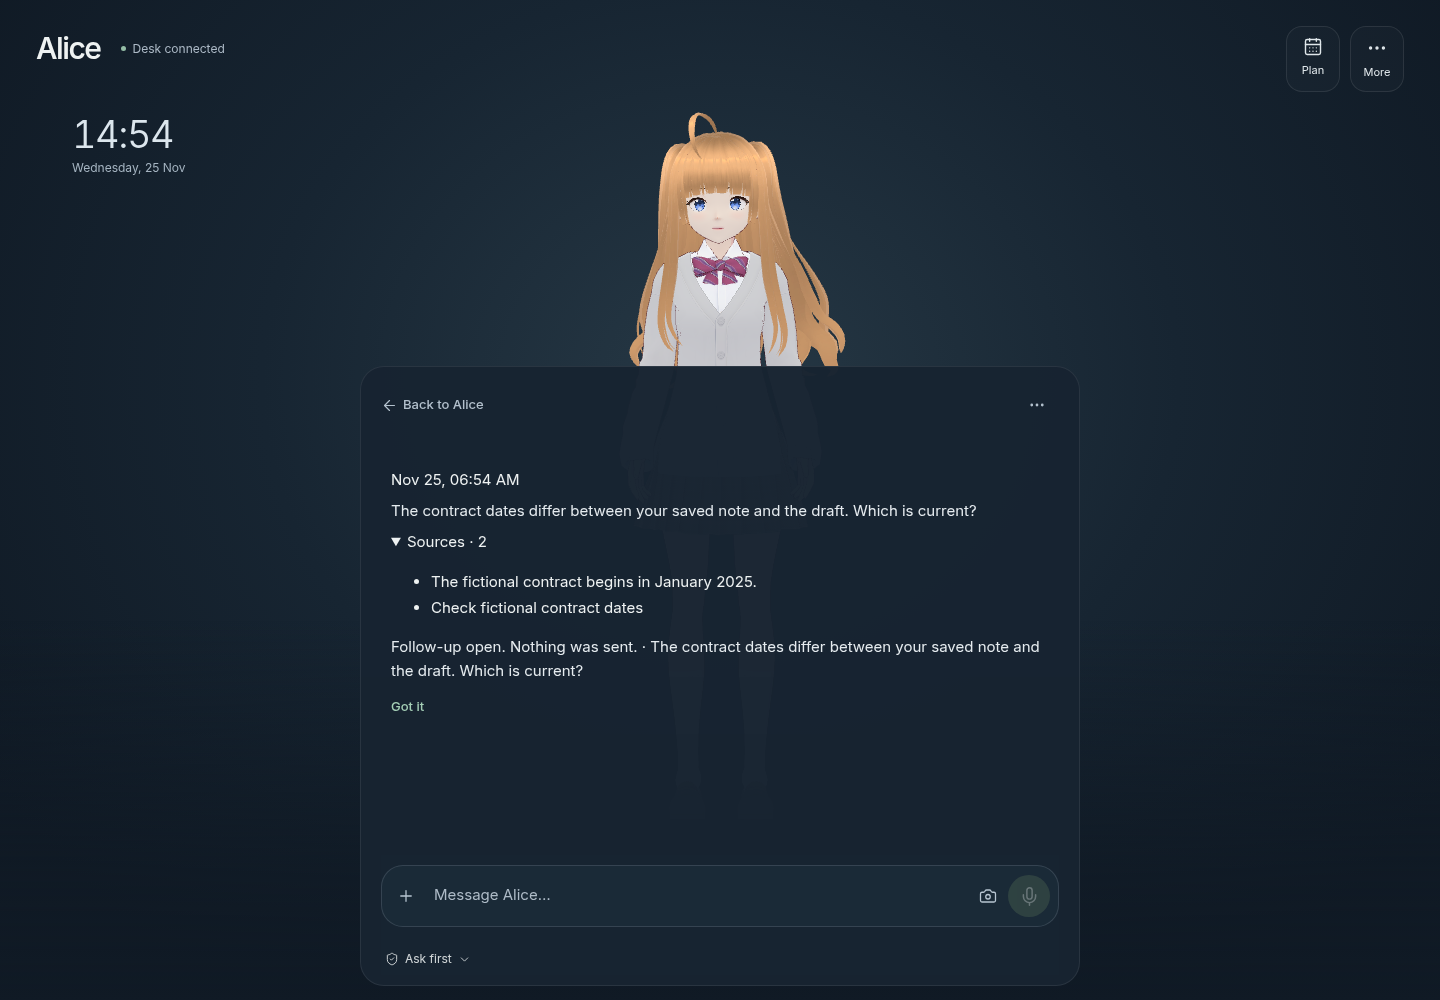
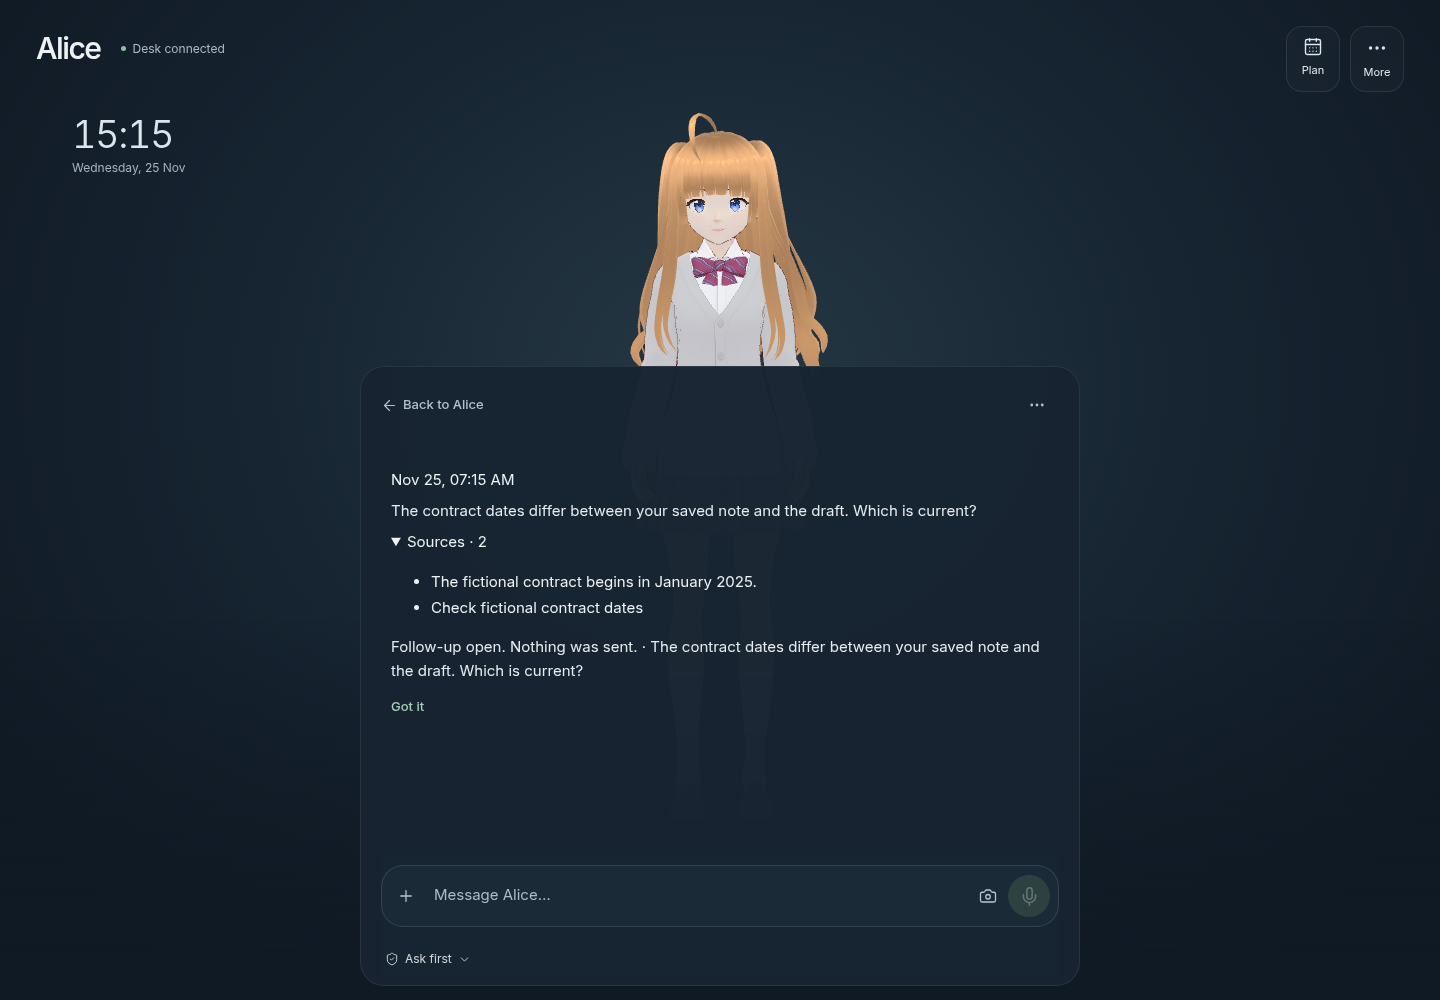
Refuse stale finding follow-ups and harden permission/replay coverage
Revalidate cited sources before creating a private follow-up task, reuse
the write connection for live status, and cover revoked/paired/hidden,
Got it, same-key replay, deleted binding, and title-edit decoys. Keep
error recovery on the exact request id after an aborted write.

diff --git a/desk-companion/frontend/src/api.ts b/desk-companion/frontend/src/api.ts
@@ -259,6 +259,14 @@ export function errorText(
     MAIL_FOLLOWUP_CHANGED: ["A newer email update is available. Refresh before marking it reviewed.", "有更新的邮件进展，请刷新后再标记已查看。"],
     MAIL_THREAD_ALREADY_FOLLOWED: ["This thread is already linked to another task.", "这段邮件对话已经关联到另一件事务。"],
     MAIL_FOLLOWUP_LIMIT: ["The email follow-up limit has been reached.", "已达到当前邮件跟进上限。"],
+    INITIATIVE_STALE: [
+      "This suggestion is no longer current. Refresh before opening a follow-up. Nothing was sent.",
+      "这项建议已不再有效。请刷新后再跟进。没有发送。",
+    ],
+    INITIATIVE_NOT_FOUND: [
+      "That suggestion is no longer available. Nothing was sent.",
+      "该项建议已不可用。没有发送。",
+    ],
     APP_SCOPE_REQUIRED: [
       "The app did not receive the required permissions. Reconnect and review the access requested.",
       "此应用未获得必要权限，请重新连接并核对访问范围。",

diff --git a/desk-companion/tests/test_initiative.py b/desk-companion/tests/test_initiative.py
@@ -641,3 +641,248 @@ def test_followup_requires_owner_session_and_creates_private_task(world):
     assert hidden.value.code == "PRIVATE_TASK_HIDDEN"
     # Binding remains by task id even when the display listing hides the private task.
     assert r.initiative._followup_status(follow.json()["followup"])["task_id"] == bound
+
+
+def test_followup_replay_and_second_key_bind_one_task(world):
+    r, client, *_ = world
+    r.initiative.advance()
+    finding = r.initiative.current()[0]
+    first = client.post(
+        f"/api/initiative/{finding['id']}/follow-ups",
+        json={},
+        headers={"X-Desk-Request": "1", "X-Operation-Id": "follow-race-a"},
+    )
+    assert first.status_code == 200 and first.json()["saved"] is True
+    bound = first.json()["followup"]["task_id"]
+    replay = client.post(
+        f"/api/initiative/{finding['id']}/follow-ups",
+        json={},
+        headers={"X-Desk-Request": "1", "X-Operation-Id": "follow-race-a"},
+    )
+    assert replay.json()["followup"]["task_id"] == bound
+    other = client.post(
+        f"/api/initiative/{finding['id']}/follow-ups",
+        json={},
+        headers={"X-Desk-Request": "1", "X-Operation-Id": "follow-race-b"},
+    )
+    assert other.json()["already_following"] is True
+    assert other.json()["followup"]["task_id"] == bound
+    assert other.json()["saved"] is False and other.json()["sent"] is False
+    with r.store.connection() as conn:
+        count = conn.execute(
+            "SELECT count(*) FROM task_evidence WHERE kind=?", ("initiative_followup",)
+        ).fetchone()[0]
+    assert count == 1
+
+
+def test_followup_refuses_revoked_paired_hidden_and_got_it_path(world):
+    r, client, actor, fact, *_ = world
+    r.initiative.advance()
+    finding = r.initiative.current()[0]
+    # Got it dismisses; it never opens a follow-up task.
+    dismissed = client.post(
+        f"/api/initiative/{finding['id']}/dismissals",
+        json={},
+        headers={"X-Desk-Request": "1", "X-Operation-Id": "got-it-only"},
+    )
+    assert dismissed.status_code == 200
+    assert dismissed.json()["sent"] is False and dismissed.json()["acted"] is False
+    with r.store.connection() as conn:
+        assert (
+            conn.execute(
+                "SELECT count(*) FROM task_evidence WHERE kind=?",
+                ("initiative_followup",),
+            ).fetchone()[0]
+            == 0
+        )
+    blocked = client.post(
+        f"/api/initiative/{finding['id']}/follow-ups",
+        json={},
+        headers={"X-Desk-Request": "1", "X-Operation-Id": "after-dismiss"},
+    )
+    assert blocked.status_code == 404
+    assert blocked.json()["error"]["code"] == "INITIATIVE_NOT_FOUND"
+
+    r.initiative.advance()
+    # A fresh finding after dismiss of the previous one.
+    open_finding = r.initiative.current()
+    if not open_finding:
+        # Advance may no-op when signature unchanged; seed another conflict.
+        now = world[5]
+        now[0] = now[0] + timedelta(minutes=20)
+        r.memory.create("A second fictional clause says March 2026.", "fact-2")
+        r.initiative.advance()
+        open_finding = r.initiative.current()
+    assert open_finding
+    target = open_finding[0]["id"]
+
+    enrol = client.post(
+        "/api/devices/enrol-display",
+        json={"name": "Paired screen"},
+        headers={"X-Desk-Request": "1", "X-Operation-Id": "pair-screen"},
+    )
+    assert enrol.status_code == 200
+    paired = TestClient(client.app)
+    paired.headers.update(
+        {
+            "Authorization": "Bearer " + client.cookies.get("desk_companion_device"),
+            "X-Desk-Request": "1",
+        }
+    )
+    assert (
+        paired.post(
+            f"/api/initiative/{target}/follow-ups",
+            json={},
+            headers={"X-Operation-Id": "paired-follow"},
+        ).status_code
+        == 403
+    )
+
+    r.store.update_settings(
+        SettingsInput(expected_version=1, timezone="Asia/Hong_Kong", hide_private=True),
+        "hide-before-follow",
+    )
+    hidden = client.post(
+        f"/api/initiative/{target}/follow-ups",
+        json={},
+        headers={"X-Desk-Request": "1", "X-Operation-Id": "hidden-follow"},
+    )
+    assert hidden.status_code == 403
+    assert hidden.json()["error"]["code"] == "PRIVATE_CONTEXT_HIDDEN"
+    r.store.update_settings(
+        SettingsInput(expected_version=2, timezone="Asia/Hong_Kong", hide_private=False),
+        "unhide-follow",
+    )
+
+    token = client.cookies.get("desk_companion_session")
+    r.store.logout(token)
+    revoked = client.post(
+        f"/api/initiative/{target}/follow-ups",
+        json={},
+        headers={"X-Desk-Request": "1", "X-Operation-Id": "revoked-follow"},
+    )
+    assert revoked.status_code == 403
+
+
+def test_stale_finding_cannot_open_followup_and_deleted_task_stays_bound(world):
+    r, client, actor, fact, task, now, calls = world
+    r.initiative.advance()
+    finding = r.initiative.current(display=True)[0]
+    # Forget a cited fact so source fingerprints no longer match.
+    r.memory.delete(fact["id"], fact["version"], "forget-cited")
+    stale = client.post(
+        f"/api/initiative/{finding['id']}/follow-ups",
+        json={},
+        headers={"X-Desk-Request": "1", "X-Operation-Id": "stale-follow"},
+    )
+    assert stale.status_code == 409
+    assert stale.json()["error"]["code"] == "INITIATIVE_STALE"
+    with r.store.connection() as conn:
+        assert (
+            conn.execute(
+                "SELECT count(*) FROM task_evidence WHERE kind=?",
+                ("initiative_followup",),
+            ).fetchone()[0]
+            == 0
+        )
+
+    # Restore matching evidence via a new conflict, then bind and remove the task row.
+    now[0] = now[0] + timedelta(minutes=30)
+    r.memory.create("The fictional contract begins in January 2025.", "fact-restored")
+    r.initiative.advance()
+    live = r.initiative.current(display=True)
+    assert live
+    created = client.post(
+        f"/api/initiative/{live[0]['id']}/follow-ups",
+        json={},
+        headers={"X-Desk-Request": "1", "X-Operation-Id": "bind-then-delete"},
+    )
+    assert created.status_code == 200
+    bound = created.json()["followup"]["task_id"]
+    with r.store.connection(write=True) as conn:
+        conn.execute("DELETE FROM tasks WHERE id=?", (bound,))
+    status = r.initiative._followup_status(created.json()["followup"])
+    assert status["task_id"] == bound and status["status"] == "missing"
+    assert status["open"] is False
+    # A later request keeps the original binding instead of writing another task.
+    again = client.post(
+        f"/api/initiative/{live[0]['id']}/follow-ups",
+        json={},
+        headers={"X-Desk-Request": "1", "X-Operation-Id": "after-delete"},
+    )
+    assert again.json()["already_following"] is True
+    assert again.json()["followup"]["task_id"] == bound
+    assert again.json()["followup_status"]["status"] == "missing"
+    with r.store.connection() as conn:
+        assert (
+            conn.execute(
+                "SELECT count(*) FROM task_evidence WHERE kind=? AND task_id=?",
+                ("initiative_followup", bound),
+            ).fetchone()[0]
+            == 1
+        )
+        assert conn.execute("SELECT 1 FROM tasks WHERE id=?", (bound,)).fetchone() is None
+    # Notices stay generic; finding wording is not copied into the notice title.
+    notices = r.notify.listing()["notices"]
+    for notice in notices:
+        body = json.dumps(notice)
+        assert "January 2025" not in body
+        assert "contract dates differ" not in body.lower()
+
+
+def test_concurrent_dismiss_beats_followup_and_edited_title_does_not_rebind(world):
+    r, client, *_ = world
+    r.initiative.advance()
+    finding = r.initiative.current()[0]
+    follow = client.post(
+        f"/api/initiative/{finding['id']}/follow-ups",
+        json={},
+        headers={"X-Desk-Request": "1", "X-Operation-Id": "title-bind"},
+    )
+    bound = follow.json()["followup"]["task_id"]
+    live = r.tasks.detail(bound)["task"]
+    r.tasks.action(
+        bound,
+        TaskAction(
+            action="update",
+            expected_version=live["version"],
+            task=TaskInput(
+                title="Renamed follow-up title",
+                next_step=live["next_step"],
+                visibility="private",
+                follow_up_enabled=False,
+            ),
+        ),
+        "rename-bound",
+    )
+    decoy = r.tasks.create(
+        TaskInput(title="Renamed follow-up title", next_step="Other"),
+        "decoy-renamed",
+    )["task"]
+    status = r.initiative.current(display=True)[0]["followup_status"]
+    assert status["task_id"] == bound and status["task_id"] != decoy["id"]
+    assert status["title"] == "Renamed follow-up title"
+
+    # Cancelled status is reflected; dismiss does not send or overwrite the task.
+    cancelled = r.tasks.detail(bound)["task"]
+    r.tasks.action(
+        bound,
+        TaskAction(action="cancel", expected_version=cancelled["version"]),
+        "cancel-bound",
+    )
+    assert r.initiative.current(display=True)[0]["followup_status"]["status"] == "cancelled"
+    gone = client.post(
+        f"/api/initiative/{finding['id']}/dismissals",
+        json={},
+        headers={"X-Desk-Request": "1", "X-Operation-Id": "dismiss-bound"},
+    )
+    assert gone.json()["sent"] is False
+    assert r.tasks.detail(bound)["task"]["status"] == "cancelled"
+    assert (
+        client.post(
+            f"/api/initiative/{finding['id']}/follow-ups",
+            json={},
+            headers={"X-Desk-Request": "1", "X-Operation-Id": "follow-after-dismiss"},
+        ).status_code
+        == 404
+    )

diff --git a/desk-companion/backend/desk/initiative.py b/desk-companion/backend/desk/initiative.py
@@ -145,14 +145,15 @@ class Initiative:
                 result.append(item)
         return sorted(result, key=lambda item: item["importance"] != "high")
 
-    def _followup_status(self, followup):
+    def _followup_status(self, followup, conn=None):
         """Live task status for an owner-chosen follow-up. Bound by task id only."""
         if not isinstance(followup, dict) or not followup.get("task_id"):
             return None
         task_id = followup["task_id"]
-        with self.store.connection() as conn:
+
+        def read(active):
             try:
-                task = self.runtime.tasks.get(conn, task_id)
+                task = self.runtime.tasks.get(active, task_id)
             except DomainError:
                 return {
                     "task_id": task_id,
@@ -161,13 +162,19 @@ class Initiative:
                     "open": False,
                     "bound_at": followup.get("bound_at"),
                 }
-        return {
-            "task_id": task_id,
-            "title": task.get("title") or followup.get("title") or "",
-            "status": task["status"],
-            "open": task["status"] in {"todo", "in_progress", "waiting"},
-            "bound_at": followup.get("bound_at"),
-        }
+            return {
+                "task_id": task_id,
+                "title": task.get("title") or followup.get("title") or "",
+                "status": task["status"],
+                "open": task["status"] in {"todo", "in_progress", "waiting"},
+                "bound_at": followup.get("bound_at"),
+            }
+
+        # Reuse the write connection when called inside a follow-up transaction.
+        if conn is not None:
+            return read(conn)
+        with self.store.connection() as active:
+            return read(active)
 
     def follow_up(self, ident, key, principal):
         """Owner explicitly opens one follow-up task bound to this finding. Does not send."""
@@ -183,7 +190,8 @@ class Initiative:
             data = json.loads(row["data"])
             existing = data.get("followup")
             if isinstance(existing, dict) and existing.get("task_id"):
-                status = self._followup_status(existing)
+                # Keep the original binding; never invent a second task for this finding.
+                status = self._followup_status(existing, conn)
                 return {
                     "saved": False,
                     "already_following": True,
@@ -193,6 +201,13 @@ class Initiative:
                     "followup": existing,
                     "followup_status": status,
                 }
+            # Withdrawn or changed evidence must not create a task from a stale finding.
+            try:
+                _, sources = self.sources.collect()
+            except DomainError as error:
+                raise DomainError("INITIATIVE_STALE", 409) from error
+            if not self.sources.matches(data.get("sources") or [], sources):
+                raise DomainError("INITIATIVE_STALE", 409)
             title = (data.get("message_en") or "Follow up on this finding").strip()
             if len(title) > 160:
                 title = title[:157].rstrip() + "..."

diff --git a/desk-companion/tests/test_initiative_followup_ui.py b/desk-companion/tests/test_initiative_followup_ui.py
@@ -118,24 +118,21 @@ def test_finding_followup_on_desktop_and_narrow_screen(servers):
         assert "Sources" in card.inner_text()
         card.get_by_text("Sources").click()
         assert "contract" in card.inner_text().lower() or "草稿" in card.inner_text()
-        # Failed follow-up path: force one error, then recover.
+        # Failed follow-up path: first attempt is unknown (aborted), then exact retry.
         failed = {"count": 0}
 
         def fail_then_pass(route):
             if failed["count"] == 0:
                 failed["count"] += 1
-                route.fulfill(
-                    status=500,
-                    content_type="application/json",
-                    body='{"error":{"code":"REQUEST_FAILED"}}',
-                )
+                # Abort leaves status 0 so the private write queue keeps the same id.
+                route.abort("connectionfailed")
                 return
             route.continue_()
 
         page.route("**/api/initiative/*/follow-ups", fail_then_pass)
         card.get_by_role("button", name="Follow up on this").click()
         page.get_by_role("alert").wait_for()
-        # Unknown/failed write keeps the exact request for owner retry.
+        page.get_by_role("button", name="Retry the same request").wait_for()
         page.get_by_role("button", name="Retry the same request").click()
         card.get_by_text("Follow-up open. Nothing was sent.").wait_for()
         assert card.get_by_role("button", name="Follow up on this").count() == 0

diff --git a/desk-companion/docs/proactive-research.md b/desk-companion/docs/proactive-research.md
@@ -51,7 +51,7 @@ The desk's existing worker infrastructure checks due, already-approved shopping 
 
 ## Owner-chosen follow-up from a finding
 
-25 November 2026. A pending finding in Conversation still offers Got it. The owner may also choose Follow up on this. That creates one private task bound to the finding by task id, records the cited source fingerprints on the task evidence, and does not send mail or purchase anything. The finding card shows live status for that bound task (open, waiting, completed, cancelled, or missing). Completing or cancelling the task updates the status; a later task with the same title does not replace the binding. Replay of the same operation id is idempotent; a second key returns the existing follow-up without creating another task. Hide-private fences display of the private task while the id binding remains. Dismissing the finding does not send and does not reopen a completed follow-up. Failed writes keep the exact request for owner retry. [Verification](../../output/qa/2026-11-25-initiative-followup/verification.md).
+25 November 2026. A pending finding in Conversation still offers Got it. The owner may also choose Follow up on this. That creates one private task bound to the finding by task id, records the cited source fingerprints on the task evidence, and does not send mail or purchase anything. The finding card shows live status for that bound task (open, waiting, completed, cancelled, or missing). Completing or cancelling the task updates the status; a later task with the same title does not replace the binding. Replay of the same operation id is idempotent; a second key returns the existing follow-up without creating another task. Hide-private fences display of the private task while the id binding remains. Dismissing the finding does not send and does not reopen a completed follow-up.  Failed writes keep the exact request for owner retry. A withdrawn or changed source refuses a new follow-up (`INITIATIVE_STALE`) and does not create a task; an existing binding is never replaced by a second task. [Verification](../../output/qa/2026-11-25-initiative-followup/verification.md).
 
 ## Acceptance and remaining work
 
